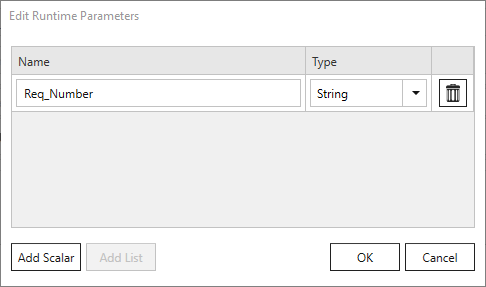
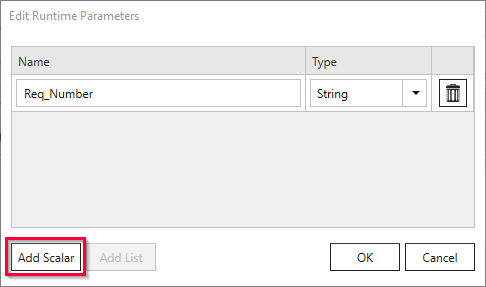
workflow complete

Changed region(s): [[0.0, 0.8084, 0.1852, 0.9756]]

diff --git a/content/_xtract-for-alteryx/bapi-erp-read-write-macro.md b/content/_xtract-for-alteryx/bapi-erp-read-write-macro.md
@@ -14,7 +14,7 @@ This article leads you through all necessary steps to set up the following workf
 - Create the purchase requisition in an SAP ERP system. <br>
 This process uses a simple input table that contains the data for the purchase requisition.
 - Use the new purchase requisition number to load the details of the purchase requisition into Alteryx. <br>
-This process uses an input parameter and a macro to pass the input parameter to the Xtract BAPI component.
+This process uses an input parameter and a batch macro to pass the input parameter to the Xtract BAPI component.
 
 {: .box-note }
 **Note:** While input tables can be passed to the Xtract BAPI component directly, single values require the usage of batch macros.
@@ -41,26 +41,32 @@ For more information, refer to the knowledge base article [SAP User Rights: BAPI
 Follow the steps below to create a new purchase requisition in SAP:
 1. Drag & drop the Xtract BAPI component into your Alteryx workflow (1).<br>
 ![xfa_create_bapi_extraction_01](/img/contents/xfa/xfa_create_bapi_extraction_01.png){:class="img-responsive" width="900px"}
-2. Select an SAP connection (2). If no SAP connection is available, create a new connection, see [Online Help: Creating an SAP Connection](https://help.theobald-software.com/en/xtract-for-alteryx/sap-connection).
-3. Click **[Edit]** (3) to open the main window of the Xtract BAPI component.
-4. In the main window of the component click ![magnifying-glass](/img/contents/icons/magnifying-glass.png). The window “Function Module Lookup” opens.
-5. In the field **Function Name** (4) enter the name of the BAPI *BAPI_REQUISITION_CREATE*. Use wildcards (*), if needed.<br>
+3. Select an SAP connection (2). If no SAP connection is available, create a new connection, see [Online Help: Creating an SAP Connection](https://help.theobald-software.com/en/xtract-for-alteryx/sap-connection).
+4. Click **[Edit]** (3) to open the main window of the Xtract BAPI component.
+5. In the main window of the component click ![magnifying-glass](/img/contents/icons/magnifying-glass.png). The window “Function Module Lookup” opens.<br>
+![BAPI-empty](/img/contents/xfa/BAPI-empty.png){:class="img-responsive"}
+6. In the field **Function Name** (4) enter the name of the BAPI *BAPI_REQUISITION_CREATE*. Use wildcards (*), if needed.<br>
 ![create-purchase-requisition-lookup](/img/contents/xfa/create-purchase-requisition-lookup.png){:class="img-responsive"}
-6. Click ![magnifying-glass](/img/contents/icons/magnifying-glass.png) and select the BAPI *BAPI_REQUISITION_CREATE* from the displayed list (5).
-7. Click **[OK]**.
-8. In the tab **Tables**, click ![glasses](/img/contents/icons/glasses.png) to look up the names and data types of table fields.
-![create-purchase-requisition-table-param](/img/contents/xfa/create-purchase-requisition-table-param.png){:class="img-responsive"}
-9. Prepare the input data. This example uses the following input:<br>
+7. Click ![magnifying-glass](/img/contents/icons/magnifying-glass.png) and select the BAPI *BAPI_REQUISITION_CREATE* from the displayed list (5).
+7. Click **[OK]**. The window "Function Module Lookup" closes.
+8. In the tab *Tables* of the Xtract BAPI component click ![glasses](/img/contents/icons/glasses.png){:class="img-responsive" style="display:inline"} to look up the names and data types of the table REQUISITION_ITEMS.
+Use this information to prepare the input data of the purchase requisition:<br>
 ![create-purchase-requisition-input-table](/img/contents/xfa/create-purchase-requisition-input-table.png){:class="img-responsive"}
-10. Select the export parameter NUMBER for the output.
+9. Connect the input data to the Xtract BAPI component (6).<br>
+![bapi-input](/img/contents/xfa/bapi-input.jpg){:class="img-responsive"}
+10. Open the Xtract BAPI component.
+11. In the tab *Tables* assign the input data to the table REQUISITION_ITEMS.<br>
+![create-purchase-requisition-table-param](/img/contents/xfa/create-purchase-requisition-table-param.png){:class="img-responsive"}
+11. Add the tables REQUISITION_ITEMS and RETURN to the output of the Xtract BAPI component.
+12. In the tab *Exports* add the export parameter NUMBER for the output.
 ![create-purchase-requisition-export-param](/img/contents/xfa/create-purchase-requisition-export-param.png){:class="img-responsive"}
-11. Click **[OK]** to save the settings.
+13. Click **[OK]** to save the settings.
 
 The Xtract BAPI component can now be used to create purchase requisitions in SAP.
 
 ### Loading Purchase Requisition Data from SAP
 
-Follow the steps below to create a batch macro that loads purchase requisition data from SAP:
+Follow the steps below to create a [batch macro](http://downloads.alteryx.com/betawh_xnext/BatchMacro.htm) that loads the SAP purchase requisition data of any given purchase requisition number:
 1. Create a new workflow.
 2. Drag & drop the Xtract BAPI component into your Alteryx workflow (1).<br>
 ![xfa_create_odp_extraction_01](/img/contents/xfa/xfa_create_odp_extraction_01.png){:class="img-responsive" width="900px"}
@@ -71,27 +77,29 @@ Follow the steps below to create a batch macro that loads purchase requisition d
 6. In the field **Function Name** (4) enter the name of the BAPI *BAPI_REQUISITION_GETDETAILS*. Use wildcards (*), if needed.<br>
 ![load-purchase-requisition-lookup](/img/contents/xfa/load-purchase-requisition-lookup.png){:class="img-responsive"}
 7. Click ![magnifying-glass](/img/contents/icons/magnifying-glass.png) and select the BAPI *BAPI_REQUISITION_GETDETAILS* from the displayed list (5).
-8. Click **[OK]**.
-9. Click **[Edit Parameters]**. The window "Edit Runtime Parameters" opens.<br>
-![load-purchase-requisition-runtime-parameter](/img/contents/xfa/load-purchase-requisition-runtime-parameter.png){:class="img-responsive"}
+8. Click **[OK]**. The window "Function Module Lookup" closes.
+9. In the main window of the component click **[Edit Parameters]**. The window "Edit Runtime Parameters" opens.
 10. Click **[Add Scalar]** to define a new input parameter for the Xtract BAPI component.
-This example uses a string parameter *Req_Number* to represent the purchase requisition number.
+This example uses a string parameter *Req_Number* to represent the purchase requisition number.<br>
+![load-purchase-requisition-runtime-parameter](/img/contents/xfa/load-purchase-requisition-runtime-parameter.png){:class="img-responsive"}
 11. Click **[OK]**. The window "Edit Runtime Parameters" closes.
-12. ...
+12. In the *Imports* tab assign the parameter *Req_Number* to the import parameter NUMBER.<br>
 ![load-purchase-requisition-import-param](/img/contents/xfa/load-purchase-requisition-import-param.png){:class="img-responsive"}
-13. Select the fields you want to add to the output of the Xtract ODP component. 
+13. In the *Tables* tab add the tables REQUISITION_ITEMS and RETURN to the output of the Xtract BAPI component. <br>
 ![load-purchase-requisition-table-parameter](/img/contents/xfa/load-purchase-requisition-table-parameter.png){:class="img-responsive"}
-
-9. Navigate to the workflow configuration and set the workflow type to **Batch Macro*.
-10. Save the workflow.
-11. Add a **Control Parameter** tool from the *Interface* toolbox and label the parameter e.g., 
-12. Connect the **Control Parameter** tools to the Xtract BAPI component. This creates the *Action* tool **Update Value** (2).
-13. Select an **Update Value** tool and mark the corresponding Xtract parameter in the tree menu *Value or Attribute to Update* (3) to assign the control parameter.
-14. Drag the **Macro Output** tool from the *Interface* toolbox onto the canvas to create an output for the batch macro (4).
-15. Connect the Xtract BAPI component to the **Macro Output**.
+14. Click **[OK]** to save the settings of the Xtract BAPI component.
+15. Navigate to the Alteryx workflow configuration and set the workflow type to **Batch Macro*.<br>
+![load-purchase-requisition-import-param](/img/contents/xfa/batchmacro.png){:class="img-responsive"}
+16. Save the workflow.
+17. Add a **Control Parameter** tool from the *Interface* toolbox. Label the parameter *Req Number Input*.
+18. Connect the **Control Parameter** tool to the Xtract BAPI component. This creates the *Action* tool **Update Value**.
+19. Select the **Update Value** tool and mark the Xtract BAPI parameter *Req_Number* in the tree menu *Value or Attribute to Update* to map the parameters.<br>
+![macro-update-value](/img/contents/xfa/macro-update-value.jpg){:class="img-responsive"}
+14. Add two **Macro Output** tools from the *Interface* toolbox to create outputs for the batch macro.
+15. Connect the output of the Xtract BAPI component to the **Macro Output** tools.
 16. Save the macro.
 
-The macro can now be used to load purchase requisition data from SAP.
+The batch macro can now be used to load SAP purchase requisition data of any given purchase requisition number.
 
 
 *****
